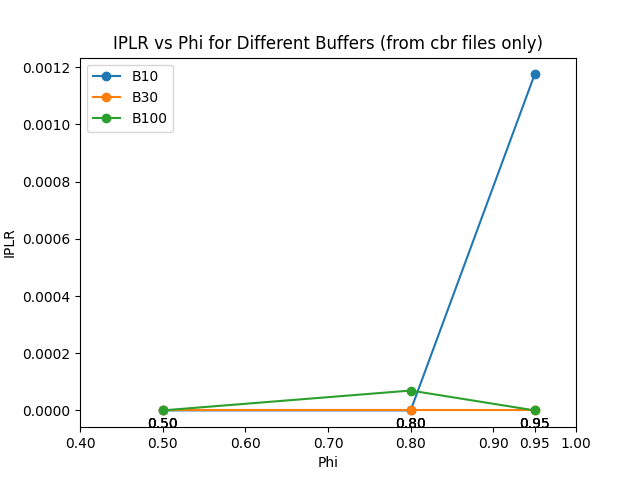
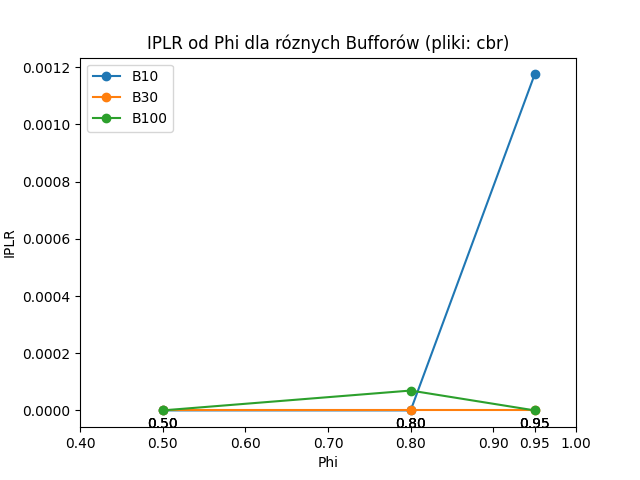
ignoring files

Changed region(s): [[0.1562, 0.0625, 0.8438, 0.125]]

diff --git a/LABY/lab1/graphs.py b/LABY/lab1/graphs.py
@@ -38,7 +38,7 @@ def make_plot_pls(origin, type):
     # Set x-axis ticks to include missing value 0.95
     plt.xticks(list(plt.xticks()[0]) + [0.95])
 
-    plt.title(f'{type} vs Phi for Different Buffers (from {origin} files only)')
+    plt.title(f'{type} od Phi dla różnych Bufforów (pliki: {origin})')
     save_dir = 'my_plots'
     os.makedirs(save_dir, exist_ok=True)  # Create the directory if it doesn't exist
 
